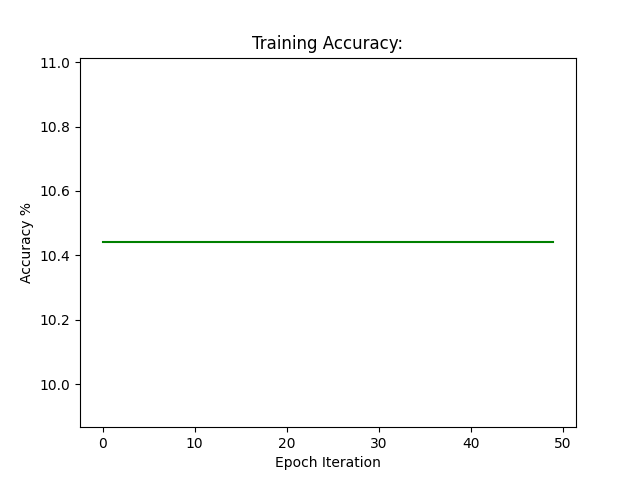
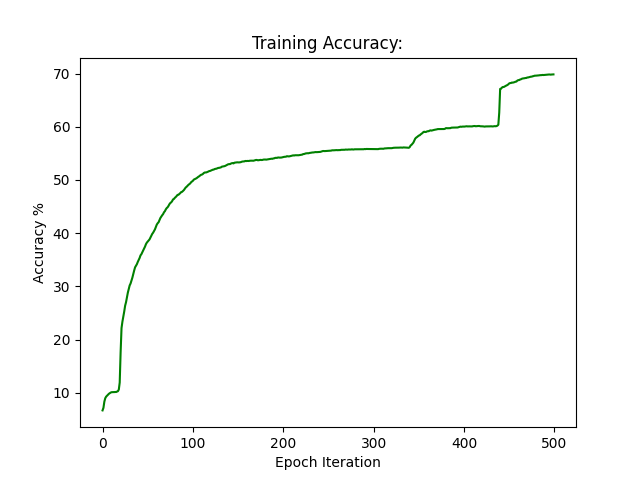
12/03/2020-Atkins-13:17:22 Updated model slightly and re-ran training and testing

diff --git a/mnist_models/microsoft_cryptonet_model/project/consts.py b/mnist_models/microsoft_cryptonet_model/project/consts.py
@@ -26,12 +26,12 @@ class EncryptionParameters:
 
 
 class TrainingParameters:
-    learning_rate = 0.001
-    num_epochs = 500
+    learning_rate = 0.01
+    num_epochs = 300
     num_models = 100
-    batch_size = 256
+    batch_size = 512
     checkpoint_frequency = 2
-    training_dataset_percentage = 10
+    training_dataset_percentage = 100
 
 
 class TestingParameters:

diff --git a/mnist_models/microsoft_cryptonet_model/project/train.py b/mnist_models/microsoft_cryptonet_model/project/train.py
@@ -61,7 +61,7 @@ def train(x_train, y_train, learning_rate, num_epochs, batch_size, checkpoint_fr
     y6 = tf.matmul(y5, W6) + b6
 
     # Layer 7: Square Activation
-    y7 = tf.math.sigmoid(y6)
+    y7 = tf.math.square(y6)
 
     # Layer 8: Fully Connected
     l8_output_nodes = 10
